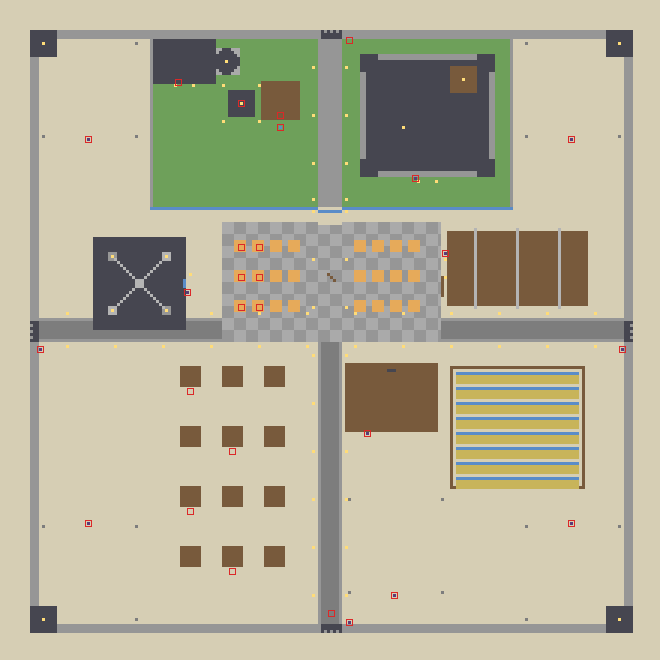
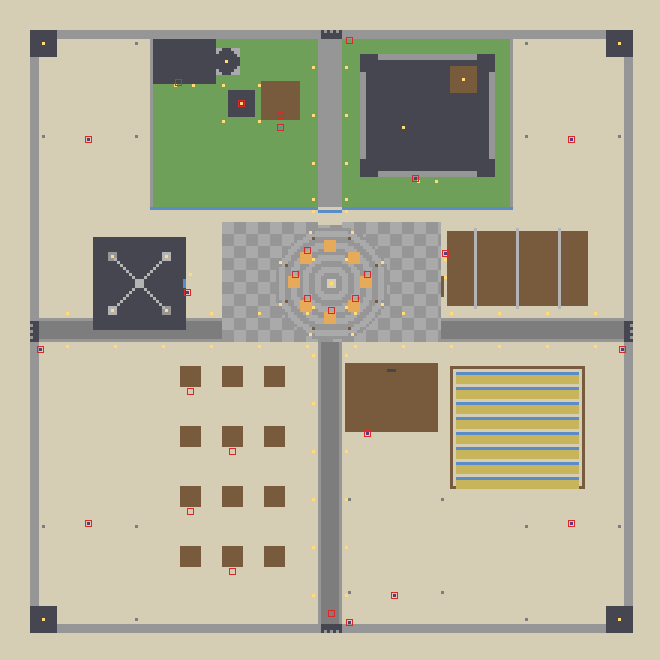
Capital: market C (ring of stalls around a fountain) in the blueprint

Changed region(s): [[0.3333, 0.3636, 0.6364, 0.5152]]

diff --git a/tools/gen_capital.py b/tools/gen_capital.py
@@ -337,31 +337,41 @@ def hall():
 
 
 def plaza_market():
-    # 広場 (x -36..36, z -36..3)。市松
+    # 広場 (x -36..36, z -36..3) と市 (ラフ C「丸い市」で決定): 井戸の噴水を囲んで露店が輪に並び、外に腰掛けと灯りの輪
+    import math
     checker(-36, -36, 36, 3, 'polished_andesite', 'stone_bricks', y=-1, step=4)
-    # 井戸 (0, -18)
-    box(-1, 0, -19, 1, 0, -17, 'stone_bricks')
-    box(-1, -1, -19, 1, -1, -17, 'stone_bricks')
-    blk(0, -1, -18, 'water')
-    blk(0, 0, -18, 'air')
-    box(-1, 1, -19, -1, 2, -19, 'spruce_fence')
-    box(1, 1, -17, 1, 2, -17, 'spruce_fence')
-    blk(0, 3, -18, 'spruce_slab[type=bottom,waterlogged=false]')
-    # 露店 (西と東。4×4、6 おき)。柱・羊毛の屋根・樽
+    cx, cz, R = 0, -16, 19
+    for x in range(cx - R, cx + R + 1):
+        for z in range(cz - R, cz + R + 1):
+            d = math.hypot(x - cx, z - cz)
+            if d <= R:
+                blk(x, -1, z, 'polished_andesite' if int(d) % 4 < 2 else 'stone_bricks')
+    # 噴水 (井戸)
+    box(cx - 2, 0, cz - 2, cx + 2, 0, cz + 2, 'stone_bricks')
+    box(cx - 1, -1, cz - 1, cx + 1, -1, cz + 1, 'water')
+    box(cx - 1, 0, cz - 1, cx + 1, 0, cz + 1, 'air')
+    blk(cx, 0, cz, 'stone_bricks')
+    blk(cx, 1, cz, 'stone_brick_wall[up=true,north=none,south=none,east=none,west=none,waterlogged=false]')
+    blk(cx, 2, cz, 'lantern[hanging=false]')
+    # 露店 8 (輪)。柱・羊毛の庇・樽
     n = 1
-    for sx in (-32, 8):
-        for i in range(0, 24, 6):
-            for j in range(0, 30, 10):
-                x, z = sx + i, -30 + j
-                if abs(x + 2) < 8:
-                    continue
-                for cx, cz in ((x, z), (x + 3, z), (x, z + 3), (x + 3, z + 3)):
-                    box(cx, 0, cz, cx, 2, cz, 'spruce_fence')
-                box(x, 3, z, x + 3, 3, z + 3, 'orange_wool' if (i // 6 + j // 10) % 2 == 0 else 'white_wool')
-                blk(x + 1, 0, z + 1, 'barrel[facing=up,open=false]')
-                if n <= 6:
-                    mark('villager_%d' % n, x + 2, 0, z + 2)
-                    n += 1
+    for k in range(8):
+        a = math.radians(k * 45)
+        x = int(round(math.cos(a) * 12)) + cx - 2
+        z = int(round(math.sin(a) * 12)) + cz - 2
+        for ex, ez in ((x, z), (x + 3, z), (x, z + 3), (x + 3, z + 3)):
+            box(ex, 0, ez, ex, 2, ez, 'spruce_fence')
+        box(x, 3, z, x + 3, 3, z + 3, 'orange_wool' if k % 2 == 0 else 'white_wool')
+        blk(x + 1, 0, z + 1, 'barrel[facing=up,open=false]')
+        blk(x + 2, 0, z + 2, 'spruce_slab[type=top,waterlogged=false]')
+        if n <= 6:
+            mark('villager_%d' % n, x + 2, 0, z - 1)
+            n += 1
+    # 腰掛けと灯りの輪
+    for k in range(8):
+        a = math.radians(k * 45 + 22)
+        lantern_post(int(round(math.cos(a) * 18)) + cx, 0, int(round(math.sin(a) * 18)) + cz)
+        blk(int(round(math.cos(a) * 16)) + cx, 0, int(round(math.sin(a) * 16)) + cz, 'spruce_stairs[facing=north,half=bottom,shape=straight,waterlogged=false]')
     mark('stand', 0, 0, 94)
 
 
